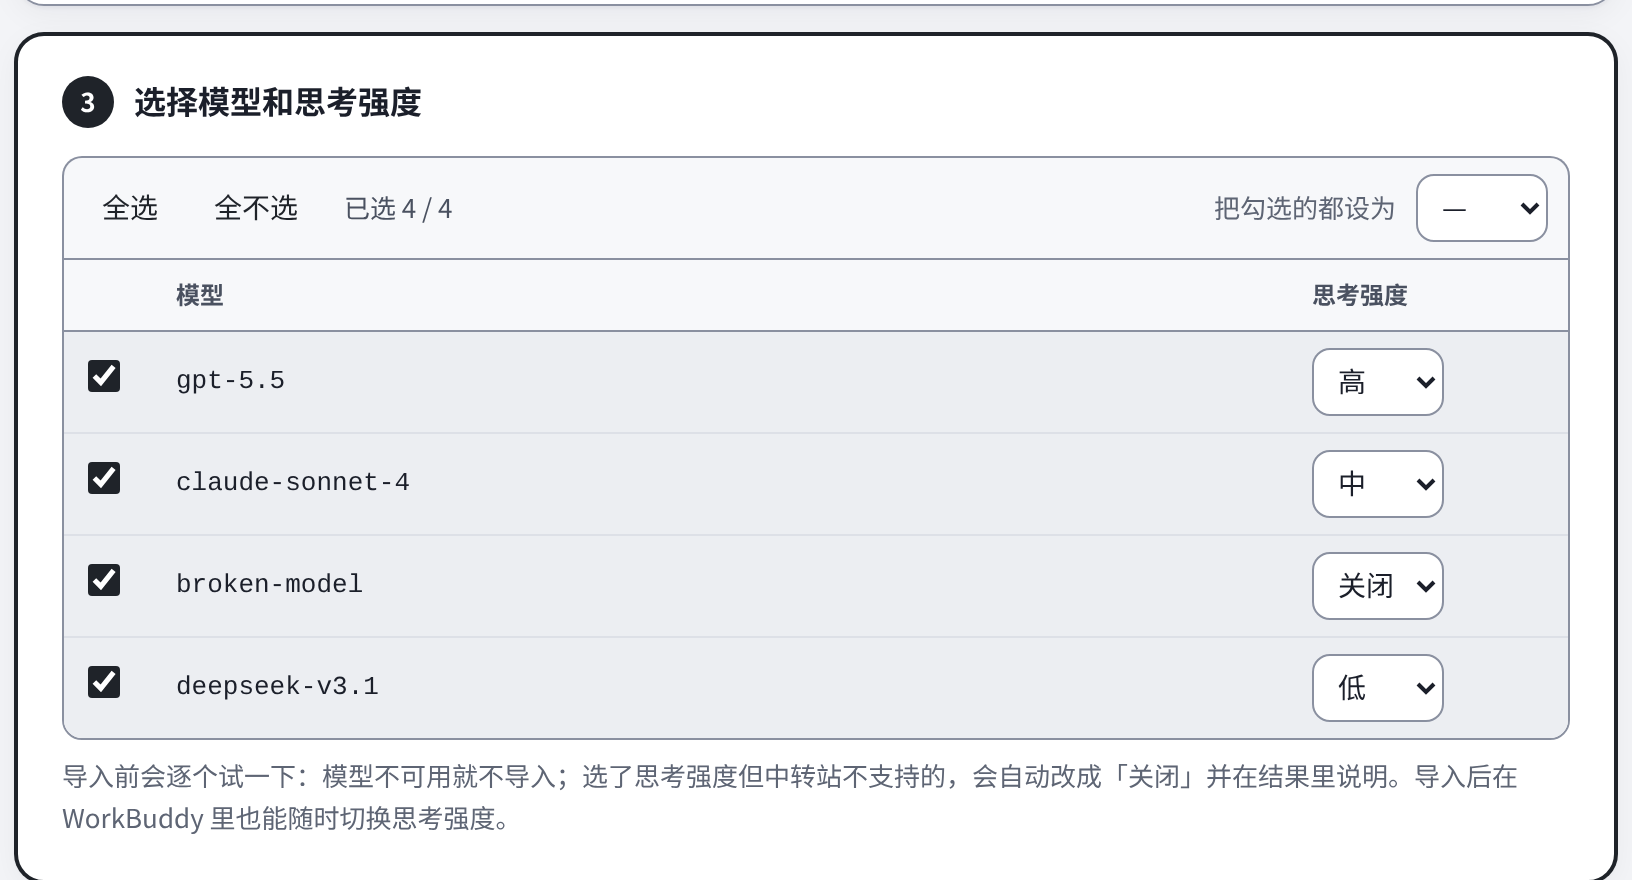
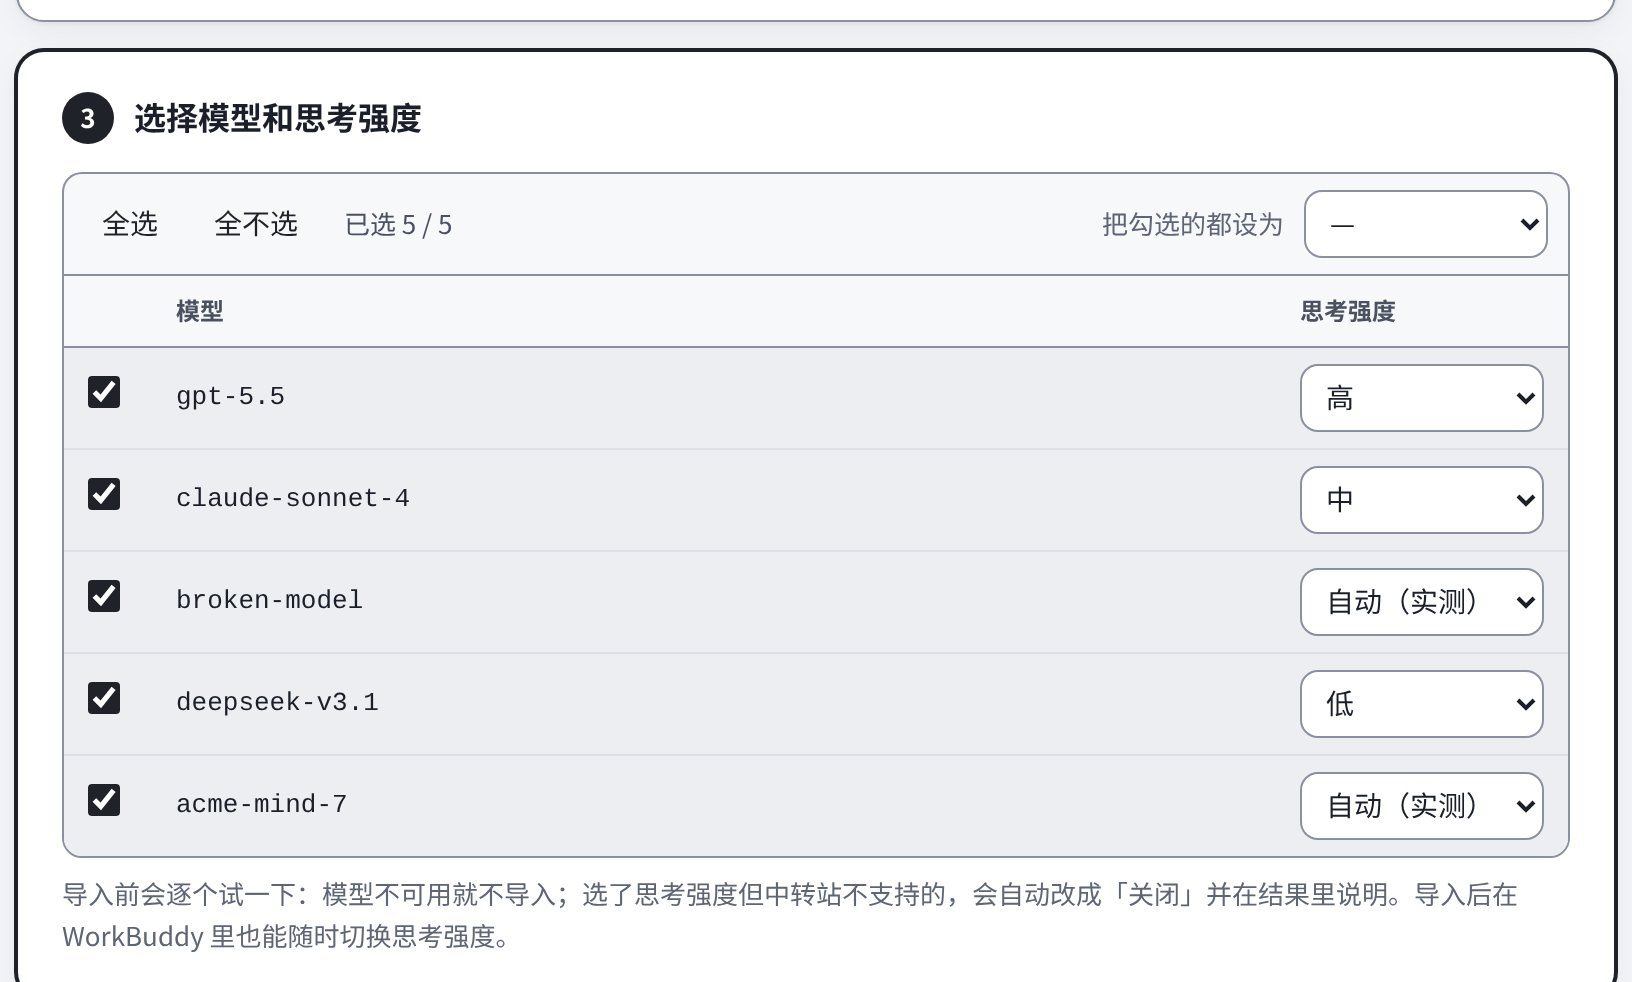
v2.2.1: 每个模型实测思考强度（默认自动）、黑灰界面默认、文档与手册更新

diff --git a/manual/manual.html b/manual/manual.html
@@ -1,6 +1,6 @@
 <!doctype html>
 <html lang="zh-CN"><head><meta charset="utf-8"><meta name="viewport" content="width=device-width,initial-scale=1">
-<title>workbuddy-relay 使用手册 v2.2.0</title>
+<title>workbuddy-relay 使用手册 v2.2.1</title>
 <style>
 body{font-family:"Noto Sans CJK SC","PingFang SC","Microsoft YaHei",sans-serif;max-width:860px;margin:0 auto;padding:24px;color:#222;line-height:1.75}
 h1{border-bottom:3px solid #2b6cb0;padding-bottom:8px}h2{margin-top:2em;color:#2b6cb0;border-bottom:1px solid #ddd}h3{margin-top:1.4em}
@@ -15,7 +15,7 @@ code{background:#f2f2f2;padding:1px 4px;border-radius:3px}
 @media print{body{max-width:none;padding:0}h2{page-break-before:always}h2.first{page-break-before:avoid}img{page-break-inside:avoid}}
 </style></head><body>
 <h1>workbuddy-relay 使用手册</h1>
-<p>版本 v2.2.0 · 2026-10-24</p>
+<p>版本 v2.2.1 · 2026-10-24</p>
 <p>这个小工具能把你在中转站（new-api 或 sub2api 搭建的网站）上的 API Key，一键导入到 WorkBuddy 里。导入以后，你就能在 WorkBuddy 里直接选用中转站提供的模型，不用再手动填地址、复制 Key。</p>
 
 <div class="toc"><b>目录</b><ol>
@@ -27,9 +27,9 @@ code{background:#f2f2f2;padding:1px 4px;border-radius:3px}
 <p>使用前，电脑上要先装好 WorkBuddy（<a href="https://www.workbuddy.cn/">https://www.workbuddy.cn/</a>）。</p>
 <p>打开下载页 <a href="https://github.com/xtianowner/workbuddy-relay/releases/latest">https://github.com/xtianowner/workbuddy-relay/releases/latest</a>，在页面底部的「Assets」里，按你的电脑选一个下载：</p>
 <table><tr><th>你的电脑</th><th>下载这个文件</th></tr>
-<tr><td>Windows</td><td><code>workbuddy-relay-2.2.0-win.zip</code></td></tr>
-<tr><td>Mac（M1/M2/M3/M4 等 Apple 芯片）</td><td><code>workbuddy-relay-2.2.0-mac-arm64.zip</code></td></tr>
-<tr><td>Mac（Intel 芯片）</td><td><code>workbuddy-relay-2.2.0-mac-x64.zip</code></td></tr></table>
+<tr><td>Windows</td><td><code>workbuddy-relay-2.2.1-win.zip</code></td></tr>
+<tr><td>Mac（M1/M2/M3/M4 等 Apple 芯片）</td><td><code>workbuddy-relay-2.2.1-mac-arm64.zip</code></td></tr>
+<tr><td>Mac（Intel 芯片）</td><td><code>workbuddy-relay-2.2.1-mac-x64.zip</code></td></tr></table>
 <div class="tip">不知道 Mac 是哪种芯片？点屏幕左上角苹果图标 →「关于本机」，「芯片」一栏写着 Apple M… 就是 Apple 芯片，写着 Intel 就是 Intel。</div>
 <p>下载后双击 zip 解压，会得到一个文件夹，里面有程序和一份 README.txt。</p>
 <div class="miss">【缺图 1-1】GitHub Release 页面 Assets 区域，标出要点的下载文件</div>
@@ -83,7 +83,7 @@ code{background:#f2f2f2;padding:1px 4px;border-radius:3px}
 <h2 id="c5">5 选择模型和思考强度</h2>
 <p>第 3 步会列出这个 Key 能用的聊天模型（向量、图片等非聊天模型已自动去掉）。</p>
 <ul><li>勾选你要导入的模型。默认勾选前 12 个，可以点「全选」「全不选」；</li>
-<li>每个模型右边可以选<b>思考强度</b>：关闭 / 低 / 中 / 高。程序已经按模型类型给了建议：GPT-5、o 系列、Claude 4、Gemini 2.5、DeepSeek、Qwen3、GLM-4.5 以上等支持思考的模型默认「中」，其他默认「关闭」；</li>
+<li>每个模型右边可以选<b>思考强度</b>：自动（实测）/ 关闭 / 低 / 中 / 高。默认是「自动（实测）」：导入时程序会给每个模型真实发一次很小的请求，中转站接受思考参数就按「中」导入，不接受就关闭；你也可以手动指定；</li>
 <li>想统一设置，可以在右上角「把勾选的都设为」里选一个。</li></ul>
 <img src="img/web-04-models.png" alt="选择模型和思考强度">
 <p class="cap">图 5-1　勾选模型，并给每个模型选思考强度。</p>

diff --git a/workbuddy/lib/wb-page.html b/workbuddy/lib/wb-page.html
@@ -138,7 +138,7 @@ footer{color:var(--m);font-size:12px;text-align:center;padding:12px 0 32px}
 </main>
 <script>
 const T='__WB_TOKEN__';const $=(id)=>document.getElementById(id);let EFF=[],mode='pat',keyChoice=null,models=[];
-const LBL={off:'关闭',low:'低',medium:'中',high:'高'};
+const LBL={auto:'自动',off:'关闭',low:'低',medium:'中',high:'高'};
 async function api(p,b){const r=await fetch(p,{method:b?'POST':'GET',headers:{'X-WB-Token':T,'Content-Type':'application/json'},body:b?JSON.stringify(b):undefined});const j=await r.json().catch(()=>({error:'本地服务已关闭'}));if(!r.ok)throw new Error(j.error||('HTTP '+r.status));return j}
 function msg(id,t,c){const e=$(id);e.className='msg '+(c||'');e.textContent=t||''}
 function busy(btn,on,txt){if(on){btn.dataset.t=btn.textContent;btn.innerHTML='<span class="spin"></span>'+(txt||'处理中…');btn.disabled=true}else{btn.textContent=btn.dataset.t||btn.textContent;btn.disabled=false}}
@@ -170,7 +170,7 @@ $('bulk').onchange=e=>{if(!e.target.value)return;models.forEach(m=>{if(m.checked
 $('b4').onclick=async()=>{const pick=models.filter(m=>m.checked).map(m=>({id:m.id,effort:m.suggest}));if(!pick.length){$('m4').textContent='请至少勾选一个模型';return}
   const b=$('b4');busy(b,1,'正在检测并导入（'+pick.length+' 个模型）…');$('m4').textContent='';$('res').innerHTML='<div class="prog">正在逐个检测模型能否使用、思考强度是否生效，模型多时需要几十秒，请不要关闭页面…</div>';
   try{const r=await api('/api/import',{models:pick});renderResult(r)}catch(e){$('res').innerHTML='<p class="msg err"></p>';$('res').firstChild.textContent='导入失败：'+e.message;busy(b,0)}};
-function renderResult(r){const rows=r.rows.map(x=>{const st=!x.usable?'<span class="tag err">未导入</span>':(x.effortWanted!=='off'&&x.effort==='off')?'<span class="tag warn">已导入·已降级</span>':'<span class="tag ok">已导入</span>';
+function renderResult(r){const rows=r.rows.map(x=>{const st=!x.usable?'<span class="tag err">未导入</span>':(!['off','auto'].includes(x.effortWanted)&&x.effort==='off')?'<span class="tag warn">已导入·已降级</span>':'<span class="tag ok">已导入</span>';
   return '<tr><td class="id">'+esc(x.id)+'</td><td>'+st+'</td><td>'+(x.usable?LBL[x.effort]:'—')+'</td><td class="note">'+esc(x.note||'')+'</td></tr>'}).join('');
   let h='<div class="tbl solo"><table><thead><tr><th>模型</th><th>结果</th><th>思考强度</th><th>说明</th></tr></thead><tbody>'+rows+'</tbody></table></div>';
   if(r.ok){h+='<div class="final"><p class="ok">✓ 完成：已导入 '+r.written.length+' 个模型</p><p class="hint">回到 WorkBuddy，在输入框上方的模型选择器里往下翻到「自定义 / Custom」分组即可使用，无需重启。'+(r.merged===true?'（已确认 WorkBuddy 接收）':r.merged===false?'（WorkBuddy 可能还在启动，稍等几秒再看）':'（WorkBuddy 下次启动时生效）')+'</p><button class="sec" id="bq">完成，关闭本工具</button></div>';$('b4').textContent='✓ 已导入';$('b4').classList.add('fin');open(5)}

diff --git a/workbuddy/test/e2e/web-e2e.py b/workbuddy/test/e2e/web-e2e.py
@@ -45,17 +45,18 @@ def scenario_newapi(b, home):
     pg.click('#bKeys'); pg.wait_for_selector('#keys label'); shot(pg, 'web-03-keys.png', '#c2')
     pg.click('#b2'); pg.wait_for_selector('#mt tr')
     rows = {pg.locator('#mt tr').nth(i).locator('td.id').inner_text(): pg.locator('#mt tr').nth(i) for i in range(pg.locator('#mt tr').count())}
-    results.append(('模型列表', set(rows) == {'gpt-5.5', 'claude-sonnet-4', 'broken-model', 'deepseek-v3.1'}, sorted(rows)))
-    results.append(('默认建议', rows['gpt-5.5'].locator('select').input_value() == 'medium' and rows['broken-model'].locator('select').input_value() == 'off', ''))
+    results.append(('模型列表', set(rows) == {'gpt-5.5', 'claude-sonnet-4', 'broken-model', 'deepseek-v3.1', 'acme-mind-7'}, sorted(rows)))
+    results.append(('默认建议', all(r.locator('select').input_value() == 'auto' for r in rows.values()), ''))
     rows['gpt-5.5'].locator('select').select_option('high')
     rows['claude-sonnet-4'].locator('select').select_option('medium')
     rows['deepseek-v3.1'].locator('select').select_option('low')
     shot(pg, 'web-04-models.png', '#c3')
     pg.click('#b4'); pg.wait_for_selector('.final, #res .msg.err', timeout=60000); shot(pg, 'web-05-result.png', '#c4')
     txt = pg.inner_text('#res')
-    results.append(('结果页', '已导入 3 个模型' in txt and '已降级' in txt and '未导入' in txt, txt.replace('\n', ' | ')[:300]))
+    results.append(('结果页', '已导入 4 个模型' in txt and '已降级' in txt and '未导入' in txt, txt.replace('\n', ' | ')[:300]))
     data = {m['id']: m for m in json.load(open(os.path.join(home, '.workbuddy', 'models.json')))}
-    results.append(('models.json 思考字段', set(data) == {'gpt-5.5', 'claude-sonnet-4', 'deepseek-v3.1'}
+    results.append(('models.json 思考字段', set(data) == {'gpt-5.5', 'claude-sonnet-4', 'deepseek-v3.1', 'acme-mind-7'}
+        and data['acme-mind-7']['reasoning']['defaultEffort'] == 'medium' and data['acme-mind-7']['supportsReasoning'] is True
         and data['gpt-5.5']['reasoning'] == {'defaultEffort': 'high', 'supportedEfforts': ['low', 'medium', 'high'], 'canDisableThinking': True}
         and data['claude-sonnet-4']['supportsReasoning'] is False and 'reasoning' not in data['claude-sonnet-4']
         and data['deepseek-v3.1']['compat'] == {'thinkingFormat': 'deepseek'} and data['deepseek-v3.1']['reasoning']['defaultEffort'] == 'low'

diff --git a/workbuddy/test/e2e/run-e2e.py b/workbuddy/test/e2e/run-e2e.py
@@ -82,7 +82,7 @@ def main():
             cfg = os.path.join(home, '.workbuddy', 'models.json')
             data = json.load(open(cfg)) if os.path.exists(cfg) else []
             ids = sorted(m['id'] for m in data)
-            ok = code == 0 and ids == ['claude-sonnet-4', 'deepseek-v3.1', 'gpt-5.5'] and '已接收配置' in out \
+            ok = code == 0 and ids == ['acme-mind-7', 'claude-sonnet-4', 'deepseek-v3.1', 'gpt-5.5'] and '已接收配置' in out \
                  and reasoning_ok(data) \
                  and all(m['url'].endswith('/v1/chat/completions') for m in data) \
                  and (not want_url or all(m['url'] == want_url + '/chat/completions' for m in data)) \

diff --git a/DESIGN.md b/DESIGN.md
@@ -4,6 +4,11 @@
 > 两个平台本来就让用户在网页上复制「API 端点 + Key」（new-api 令牌管理页、sub2api API 密钥页）。v2 只是把「复制 → 粘贴 → 配置 WorkBuddy」简化成一步。
 > 代码：`workbuddy/lib/wb-relay.mjs`、`wb-setup.mjs`、`test/relay.test.mjs`。第二部分为 v1 本地导入引擎原文，仍有效。
 
+## 变更 2.2.1（黑灰界面 + 每个模型实测思考强度）
+
+- 界面：默认配色改为中性黑灰（主色 #1F2329，与 WorkBuddy 一致），删除备选配色。
+- 思考强度：新增默认选项 `auto`「自动（实测）」。不再按模型名猜：所选的**每个**模型都用 `reasoning_effort=medium` 实测一次（并发 4，单次超时 30s；DeepSeek/Qwen/GLM 被拒时再试各自格式）。接受 → `supportsReasoning:true` + `reasoning{defaultEffort:'medium', supportedEfforts:['low','medium','high'], canDisableThinking:true}`；不接受 → 关闭。用户仍可在网页里逐个改成关闭/低/中/高（手动档位不通过时照旧降级）。CLI `--effort auto` 同此逻辑。
+
 ## 变更 2.2.0（网页填写 + 每个模型可选思考强度）
 
 **交互**：不带参数运行（双击 exe / Mac 程序 / .command / .bat）= 网页模式（`lib/wb-web.mjs` + `lib/wb-page.html`）。

diff --git a/README.md b/README.md
@@ -9,7 +9,7 @@
 - 双击后自动在浏览器打开本地导入页面，全程网页填写，不用在终端里输入
 - 输入站点地址，自动识别 new-api / sub2api
 - 用平台令牌列出你已有的 Key 选择，或新建一个；也可以直接粘贴 `sk-` Key
-- 列出聊天模型，勾选要导入的，并给**每个模型选思考强度**（关闭/低/中/高，按模型家族给默认建议）
+- 列出聊天模型，勾选要导入的，并给**每个模型选思考强度**（默认「自动（实测）」：每个模型都真实发一次小请求，中转站接受思考参数就开「中」，否则关闭；也可手动改成关闭/低/中/高）
 - 导入前逐个探测：模型不可用不导入；思考参数被中转站拒绝的自动降级为不带思考，并在页面说明原因；DeepSeek / Qwen / GLM 会自动尝试其专用思考格式
 - 写入 WorkBuddy，WorkBuddy 运行中会热加载，无需重启；导入的模型在 WorkBuddy 里可切换思考强度
 - 自动清理本工具旧版本写入的同站点失效条目

diff --git a/manual/缺图清单.md b/manual/缺图清单.md
@@ -1,4 +1,4 @@
-# 缺图清单（v2.2.0）
+# 缺图清单（v2.2.1）
 
 以下截图需要在真实环境中截取，当前在手册里用灰色虚线框占位，没有用示意图代替。截好后放到 `img/`，替换 `manual.html` 中对应的占位框即可。导入页面本身的截图（图 2-1、3-1、4-1、5-1、6-1）已由 headless 浏览器对接本地模拟中转站真实截取。
 

diff --git a/manual/章节目录.md b/manual/章节目录.md
@@ -1,4 +1,4 @@
-# workbuddy-relay 使用手册 · 章节目录（v2.2.0）
+# workbuddy-relay 使用手册 · 章节目录（v2.2.1）
 
 HTML 与 PDF 共用同一份源文件 `manual.html`，章节编号一致。
 
